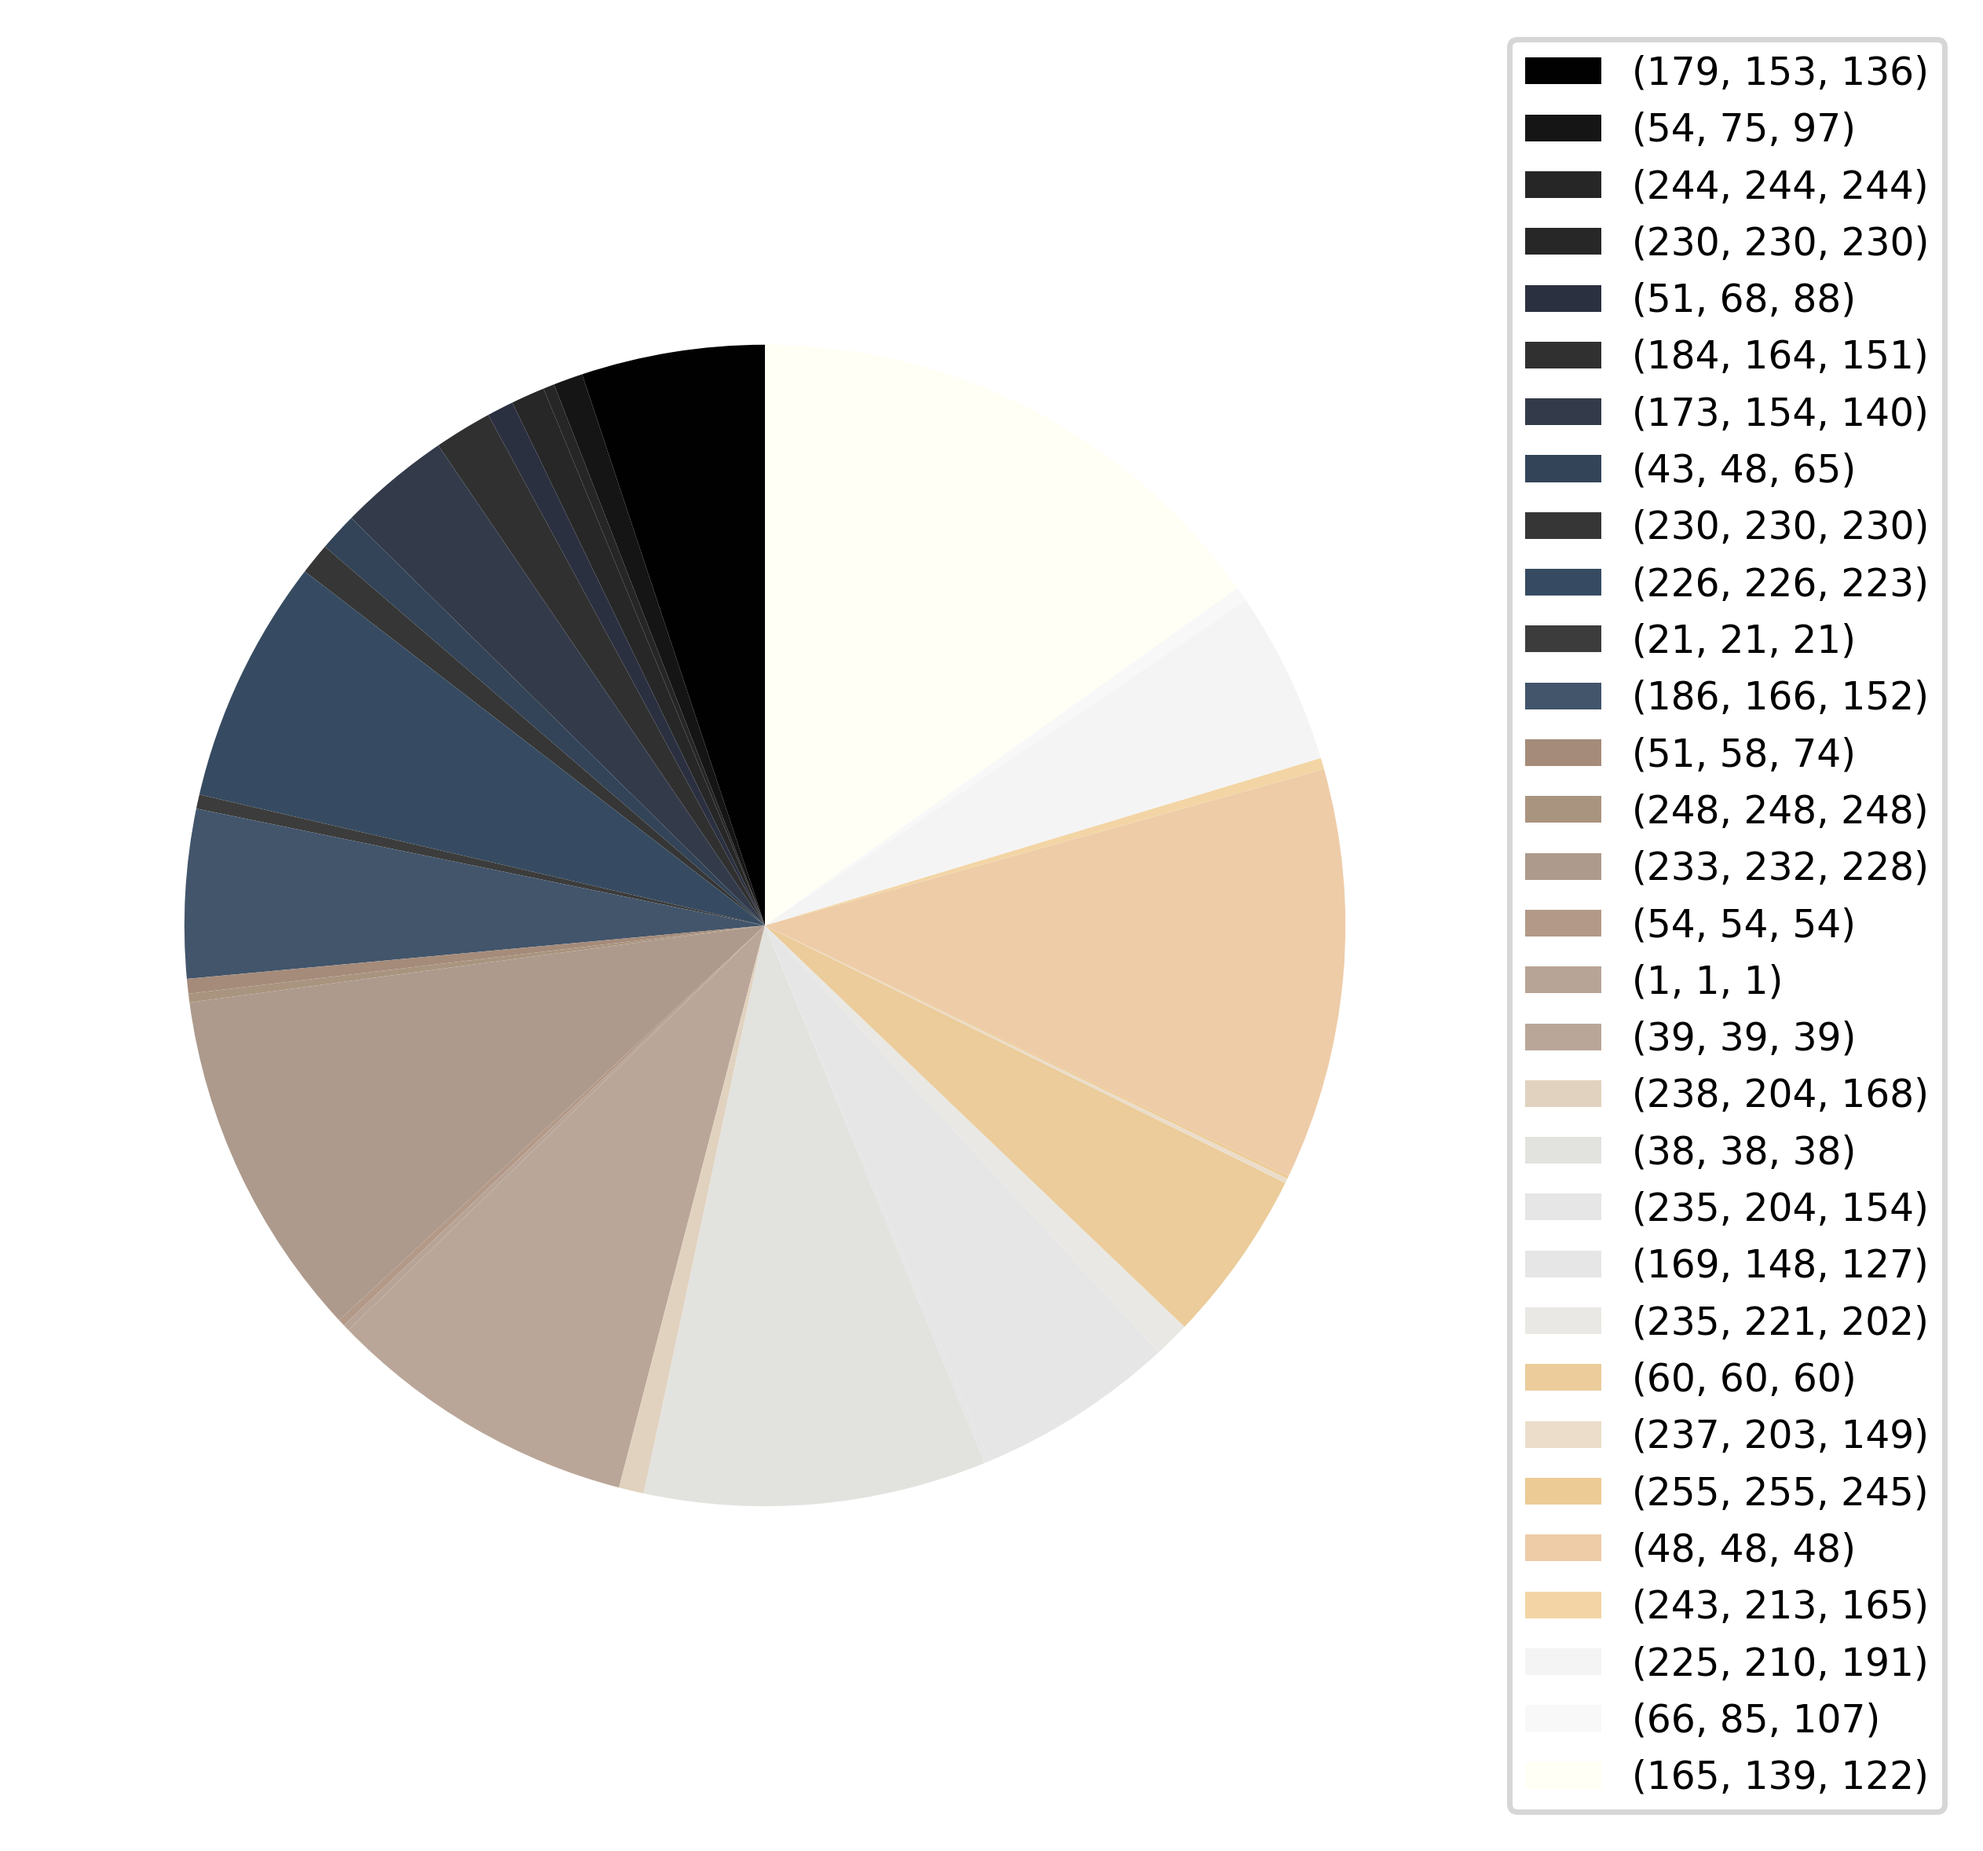
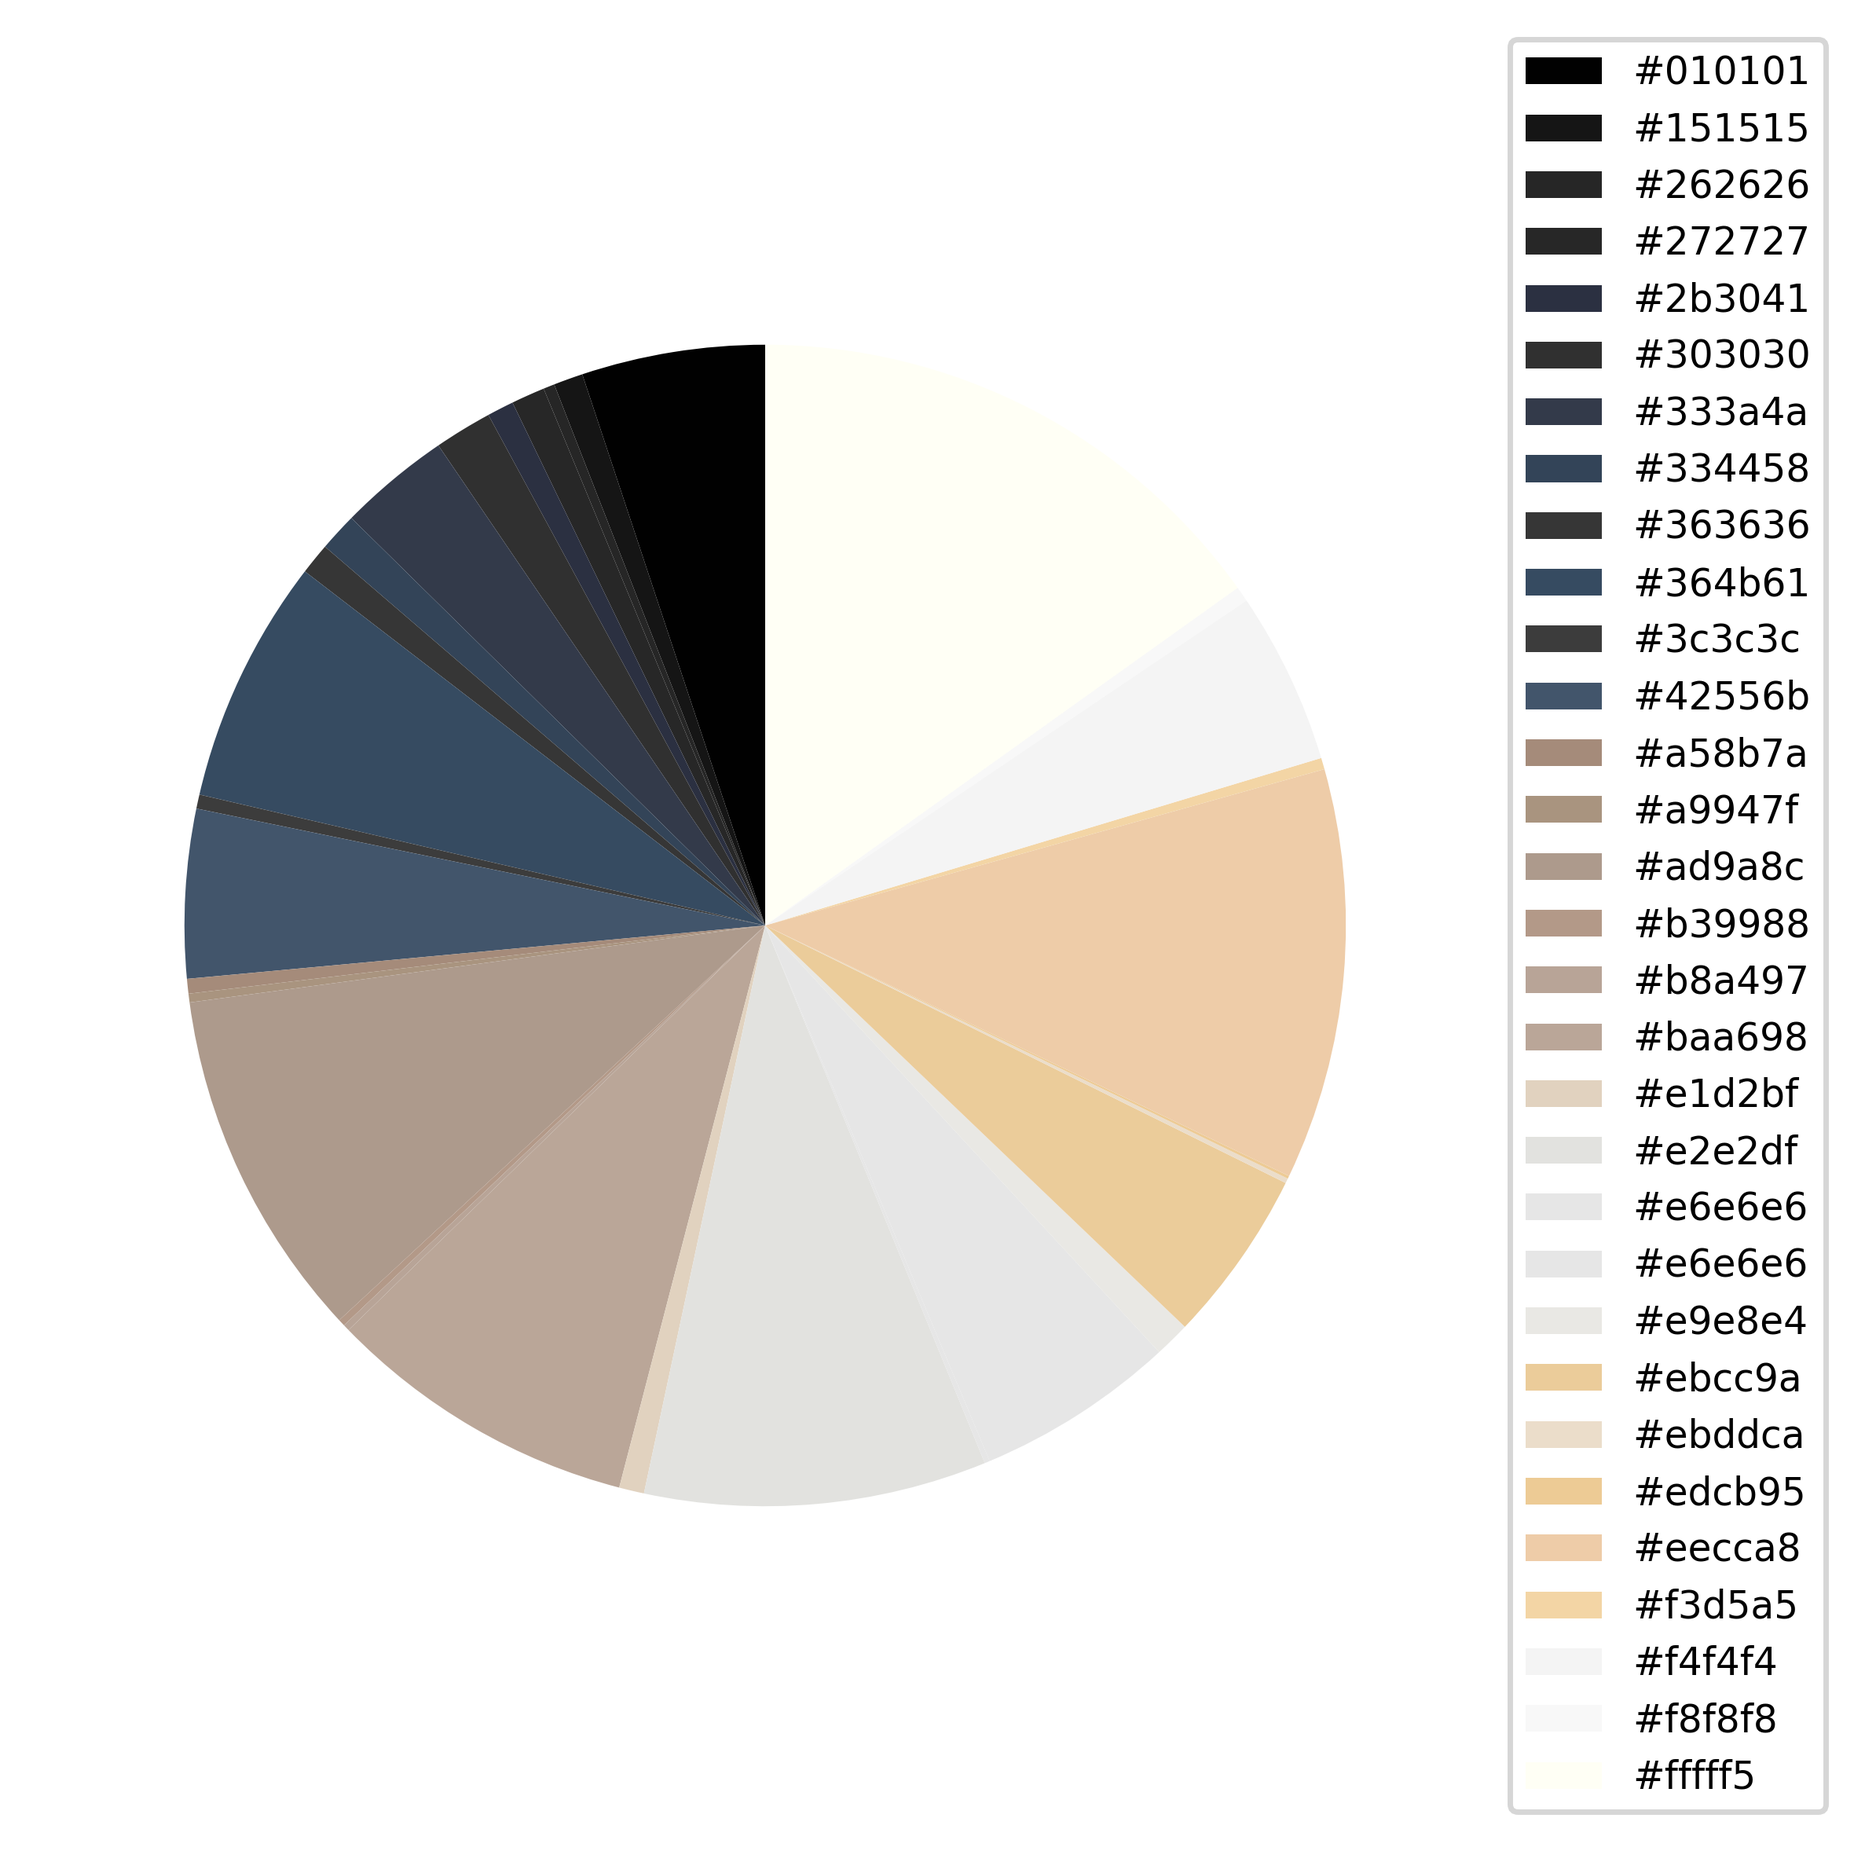
changed lengend to hex and fixed bug within the legend

diff --git a/designer_color_scrape.py b/designer_color_scrape.py
@@ -36,8 +36,10 @@ class image_identifier:
             for color in colors:
                 labels.append(str(color[0]))
                 sizes.append(color[1])
-            plt.pie(sizes, startangle=90, colors=sorted(self.rgb_to_hex(labels)))
-            plt.legend(labels, loc='center left', fontsize=7, bbox_to_anchor=(1, 0.5))
+
+            sorted_hex = sorted(self.rgb_to_hex(labels))
+            plt.pie(sizes, startangle=90, colors=sorted_hex)
+            plt.legend(sorted_hex, loc='center left', fontsize=7, bbox_to_anchor=(1, 0.5))
             plt.savefig('readme_images/Louis_Vuitton_colors.PNG', bbox_inches='tight', dpi=500)
             plt.show()
         else:
